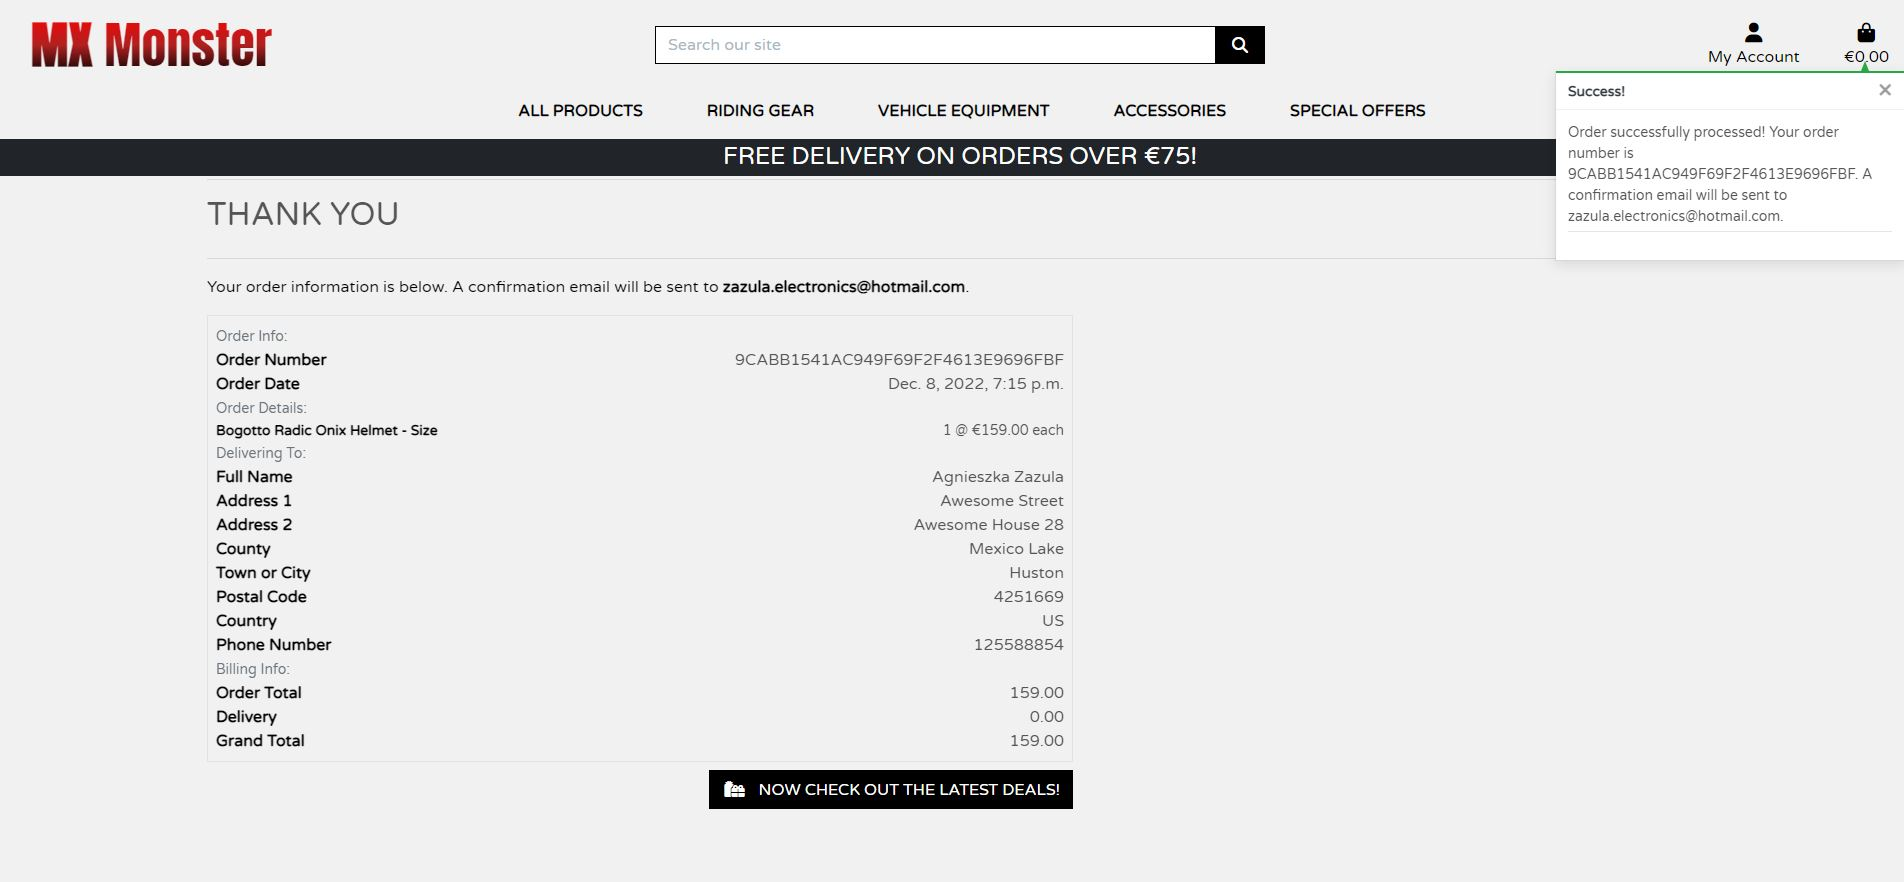
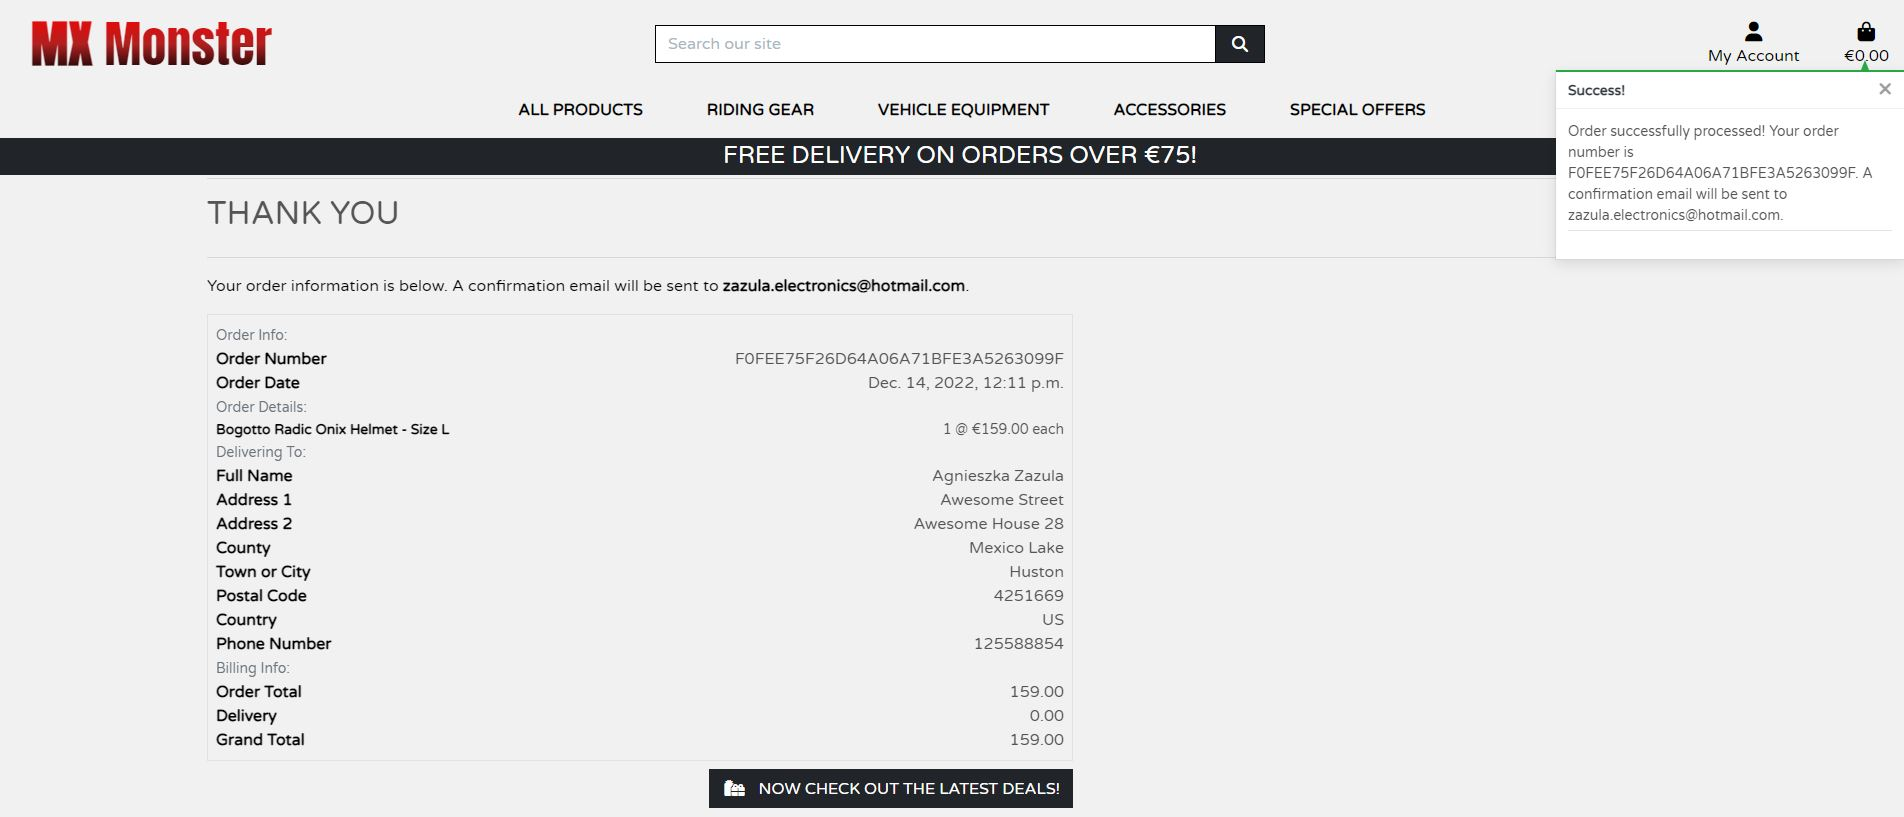
Updload new images to document the fix where the product size was not displaying on the order summary page

diff --git a/README.md b/README.md
@@ -1471,6 +1471,8 @@ Fix : Change the code as below to fix the problem
 {{ item.product.name }}{% if item.product_size %} - Size {{ item.product_size|upper }}{% endif %}
 ```
 
+![Product size displaying correctly on the order summary page](docs/images/bugs/product-size-displaying-correctly-on-the-order-confirmation-page.JPG)
+
 </details>
 
 [Back to Top](#table-of-contents)
